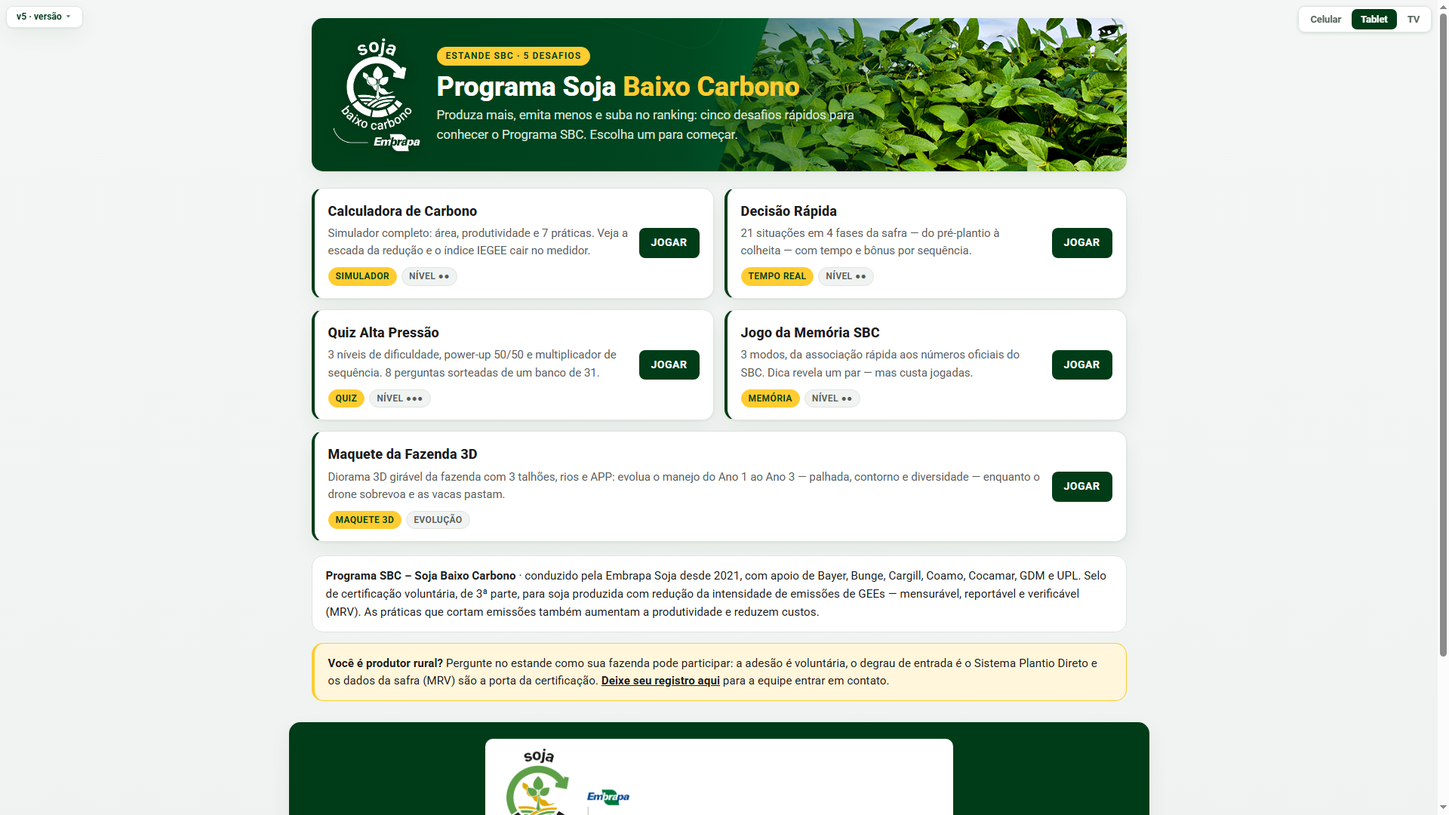
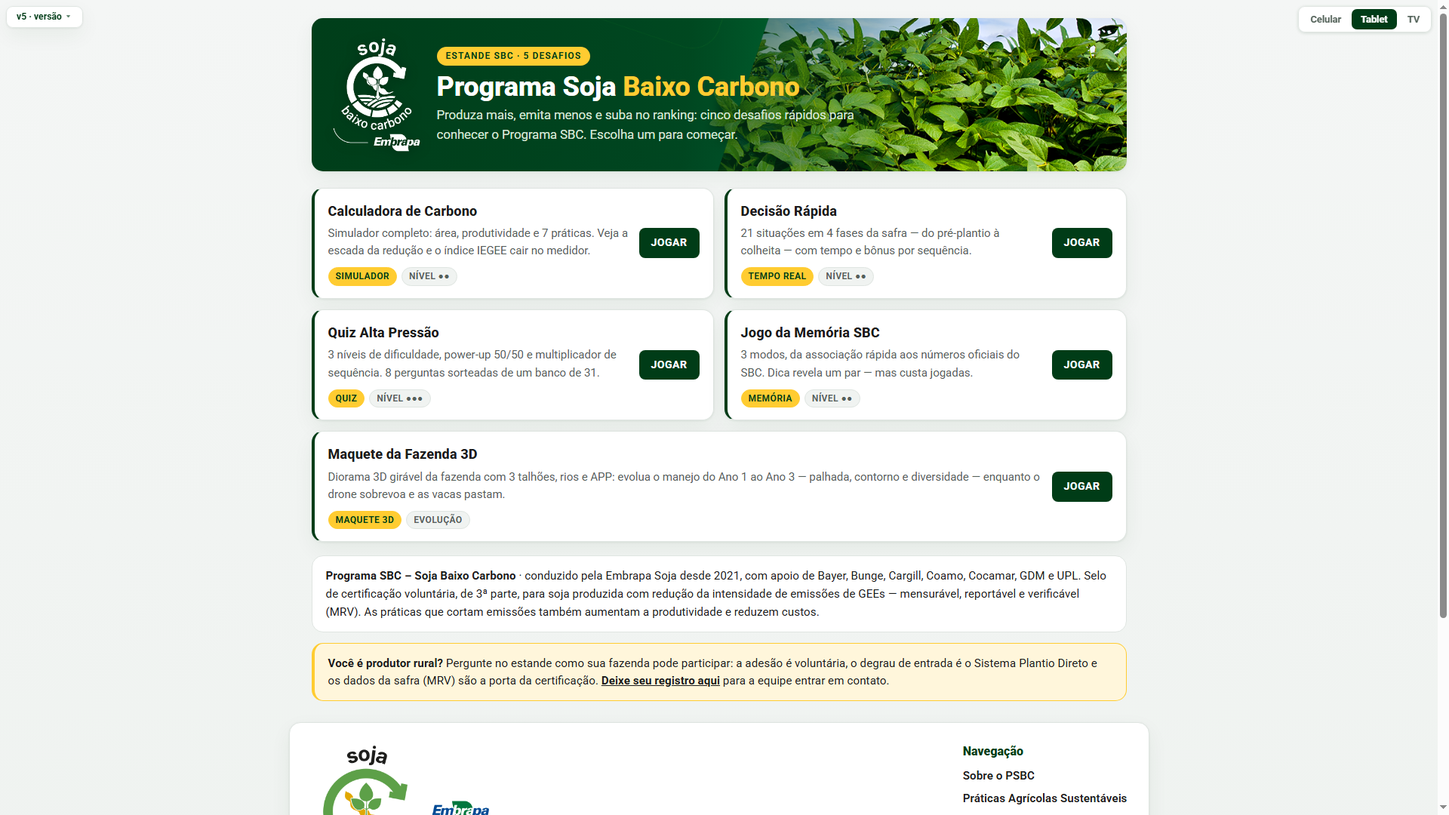
rodapé no modelo do site oficial (card de apoiadoras + navegação + redes)
- footer das 8 páginas: lockup das empresas apoiadoras à esquerda,
  bloco Navegação com os 6 links para as páginas oficiais
  (sobrem em nova aba), ícones Facebook/Instagram/LinkedIn/YouTube
  em SVG embutido e linha de copyright
- conserto: atributo stroke duplicado deixava o ícone do Instagram escuro

Changed region(s): [[0.1875, 0.8861, 0.8125, 1.0], [0.9688, 0.7639, 1.0, 0.7944]]

diff --git a/jogo1.html b/jogo1.html
@@ -188,11 +188,29 @@
         </section>
     </main>
 
-    <footer class="rodape">
-        <img class="logo-rodape" src="logos-oficiais/embrapa.png" alt="Embrapa">
-        Programa SBC – Soja Baixo Carbono · Embrapa Soja<br>
-        Certificação voluntária de 3ª parte · Mensurável, Reportável e Verificável (MRV)
-    </footer>
+    
+<footer class="rodape">
+    <div class="rodape-linha">
+        <img class="rodape-lockup" src="logos-oficiais/lockup-apoiadoras-2026.png" alt="Programa SBC – Soja Baixo Carbono · Empresas apoiadoras: Bayer, Bunge, Cargill, Coamo, Cocamar, GDM e UPL">
+        <nav class="rodape-nav">
+            <h3>Navegação</h3>
+            <a href="https://sojabaixocarbono.com.br/pt/sobre/" target="_blank" rel="noopener">Sobre o PSBC</a>
+            <a href="https://sojabaixocarbono.com.br/pt/sobre/praticas-agricolas-sustentaveis/" target="_blank" rel="noopener">Práticas Agrícolas Sustentáveis</a>
+            <a href="https://sojabaixocarbono.com.br/pt/sobre/diretrizes-tecnicas/" target="_blank" rel="noopener">Diretrizes Técnicas</a>
+            <a href="https://sojabaixocarbono.com.br/noticias/" target="_blank" rel="noopener">Notícias</a>
+            <a href="https://sojabaixocarbono.com.br/empresas-apoiadoras/" target="_blank" rel="noopener">Empresas Apoiadoras</a>
+            <a href="https://sojabaixocarbono.com.br/pt/contato/" target="_blank" rel="noopener">Entre em Contato</a>
+            <div class="rodape-sociais">
+                <a href="https://www.facebook.com/embrapasoja.oficial" target="_blank" rel="noopener" aria-label="Facebook"><svg viewBox="0 0 24 24"><path d="M15.5 3H18V0h-3.4C11.2 0 10 1.9 10 4.6V7H7v3h3v11h4V10h3l.6-3H14V5c0-1 .6-2 1.5-2z"/></svg></a>
+                <a href="https://www.instagram.com/embrapasoja" target="_blank" rel="noopener" aria-label="Instagram"><svg viewBox="0 0 24 24"><rect x="2.5" y="2.5" width="19" height="19" rx="5" fill="none" stroke-width="2" stroke="#fff"/><circle cx="12" cy="12" r="4.2" fill="none" stroke-width="2" stroke="#fff"/><circle cx="17.3" cy="6.7" r="1.3"/></svg></a>
+                <a href="https://www.linkedin.com/company/embrapa-soja" target="_blank" rel="noopener" aria-label="LinkedIn"><svg viewBox="0 0 24 24"><path d="M4.98 3.5a2.49 2.49 0 1 1-.02 4.98 2.49 2.49 0 0 1 .02-4.98zM3 9h4v12H3zM10 9h3.8v1.7c.6-1.1 2-2 3.9-2 3.3 0 4.3 1.9 4.3 5.2V21h-4v-6c0-1.6-.3-3.1-2.1-3.1-1.8 0-2.1 1.5-2.1 3v6H10z"/></svg></a>
+                <a href="https://www.youtube.com/@EmbrapaSojaRadar" target="_blank" rel="noopener" aria-label="YouTube"><svg viewBox="0 0 24 24"><path d="M21.6 7.2a2.5 2.5 0 0 0-1.8-1.8C18.2 5 12 5 12 5s-6.2 0-7.8.4A2.5 2.5 0 0 0 2.4 7.2 26 26 0 0 0 2 12a26 26 0 0 0 .4 4.8 2.5 2.5 0 0 0 1.8 1.8C5.8 19 12 19 12 19s6.2 0 7.8-.4a2.5 2.5 0 0 0 1.8-1.8A26 26 0 0 0 22 12a26 26 0 0 0-.4-4.8zM10 15V9l5.2 3z"/></svg></a>
+            </div>
+        </nav>
+    </div>
+    <div class="rodape-base">2026 © Todos os direitos autorais reservados · Programa SBC – Soja Baixo Carbono · Embrapa Soja · Londrina, PR</div>
+</footer>
+
 
     <script src="jogos-sbc.js"></script>
     <script>

diff --git a/jogo3.html b/jogo3.html
@@ -108,10 +108,29 @@
         <a href="index.html" class="botao neutro" style="text-decoration:none;text-align:center;">Voltar ao menu</a>
     </main>
 
-    <footer class="rodape">
-        <img class="logo-rodape" src="logos-oficiais/embrapa.png" alt="Embrapa">
-        Programa SBC – Soja Baixo Carbono · Embrapa Soja
-    </footer>
+    
+<footer class="rodape">
+    <div class="rodape-linha">
+        <img class="rodape-lockup" src="logos-oficiais/lockup-apoiadoras-2026.png" alt="Programa SBC – Soja Baixo Carbono · Empresas apoiadoras: Bayer, Bunge, Cargill, Coamo, Cocamar, GDM e UPL">
+        <nav class="rodape-nav">
+            <h3>Navegação</h3>
+            <a href="https://sojabaixocarbono.com.br/pt/sobre/" target="_blank" rel="noopener">Sobre o PSBC</a>
+            <a href="https://sojabaixocarbono.com.br/pt/sobre/praticas-agricolas-sustentaveis/" target="_blank" rel="noopener">Práticas Agrícolas Sustentáveis</a>
+            <a href="https://sojabaixocarbono.com.br/pt/sobre/diretrizes-tecnicas/" target="_blank" rel="noopener">Diretrizes Técnicas</a>
+            <a href="https://sojabaixocarbono.com.br/noticias/" target="_blank" rel="noopener">Notícias</a>
+            <a href="https://sojabaixocarbono.com.br/empresas-apoiadoras/" target="_blank" rel="noopener">Empresas Apoiadoras</a>
+            <a href="https://sojabaixocarbono.com.br/pt/contato/" target="_blank" rel="noopener">Entre em Contato</a>
+            <div class="rodape-sociais">
+                <a href="https://www.facebook.com/embrapasoja.oficial" target="_blank" rel="noopener" aria-label="Facebook"><svg viewBox="0 0 24 24"><path d="M15.5 3H18V0h-3.4C11.2 0 10 1.9 10 4.6V7H7v3h3v11h4V10h3l.6-3H14V5c0-1 .6-2 1.5-2z"/></svg></a>
+                <a href="https://www.instagram.com/embrapasoja" target="_blank" rel="noopener" aria-label="Instagram"><svg viewBox="0 0 24 24"><rect x="2.5" y="2.5" width="19" height="19" rx="5" fill="none" stroke-width="2" stroke="#fff"/><circle cx="12" cy="12" r="4.2" fill="none" stroke-width="2" stroke="#fff"/><circle cx="17.3" cy="6.7" r="1.3"/></svg></a>
+                <a href="https://www.linkedin.com/company/embrapa-soja" target="_blank" rel="noopener" aria-label="LinkedIn"><svg viewBox="0 0 24 24"><path d="M4.98 3.5a2.49 2.49 0 1 1-.02 4.98 2.49 2.49 0 0 1 .02-4.98zM3 9h4v12H3zM10 9h3.8v1.7c.6-1.1 2-2 3.9-2 3.3 0 4.3 1.9 4.3 5.2V21h-4v-6c0-1.6-.3-3.1-2.1-3.1-1.8 0-2.1 1.5-2.1 3v6H10z"/></svg></a>
+                <a href="https://www.youtube.com/@EmbrapaSojaRadar" target="_blank" rel="noopener" aria-label="YouTube"><svg viewBox="0 0 24 24"><path d="M21.6 7.2a2.5 2.5 0 0 0-1.8-1.8C18.2 5 12 5 12 5s-6.2 0-7.8.4A2.5 2.5 0 0 0 2.4 7.2 26 26 0 0 0 2 12a26 26 0 0 0 .4 4.8 2.5 2.5 0 0 0 1.8 1.8C5.8 19 12 19 12 19s6.2 0 7.8-.4a2.5 2.5 0 0 0 1.8-1.8A26 26 0 0 0 22 12a26 26 0 0 0-.4-4.8zM10 15V9l5.2 3z"/></svg></a>
+            </div>
+        </nav>
+    </div>
+    <div class="rodape-base">2026 © Todos os direitos autorais reservados · Programa SBC – Soja Baixo Carbono · Embrapa Soja · Londrina, PR</div>
+</footer>
+
 
     <script src="jogos-sbc.js"></script>
     <script>

diff --git a/jogo4.html b/jogo4.html
@@ -171,10 +171,29 @@
         <a href="index.html" class="botao neutro" style="text-decoration:none;text-align:center;">Voltar ao menu</a>
     </main>
 
-    <footer class="rodape">
-        <img class="logo-rodape" src="logos-oficiais/embrapa.png" alt="Embrapa">
-        Programa SBC – Soja Baixo Carbono · Embrapa Soja
-    </footer>
+    
+<footer class="rodape">
+    <div class="rodape-linha">
+        <img class="rodape-lockup" src="logos-oficiais/lockup-apoiadoras-2026.png" alt="Programa SBC – Soja Baixo Carbono · Empresas apoiadoras: Bayer, Bunge, Cargill, Coamo, Cocamar, GDM e UPL">
+        <nav class="rodape-nav">
+            <h3>Navegação</h3>
+            <a href="https://sojabaixocarbono.com.br/pt/sobre/" target="_blank" rel="noopener">Sobre o PSBC</a>
+            <a href="https://sojabaixocarbono.com.br/pt/sobre/praticas-agricolas-sustentaveis/" target="_blank" rel="noopener">Práticas Agrícolas Sustentáveis</a>
+            <a href="https://sojabaixocarbono.com.br/pt/sobre/diretrizes-tecnicas/" target="_blank" rel="noopener">Diretrizes Técnicas</a>
+            <a href="https://sojabaixocarbono.com.br/noticias/" target="_blank" rel="noopener">Notícias</a>
+            <a href="https://sojabaixocarbono.com.br/empresas-apoiadoras/" target="_blank" rel="noopener">Empresas Apoiadoras</a>
+            <a href="https://sojabaixocarbono.com.br/pt/contato/" target="_blank" rel="noopener">Entre em Contato</a>
+            <div class="rodape-sociais">
+                <a href="https://www.facebook.com/embrapasoja.oficial" target="_blank" rel="noopener" aria-label="Facebook"><svg viewBox="0 0 24 24"><path d="M15.5 3H18V0h-3.4C11.2 0 10 1.9 10 4.6V7H7v3h3v11h4V10h3l.6-3H14V5c0-1 .6-2 1.5-2z"/></svg></a>
+                <a href="https://www.instagram.com/embrapasoja" target="_blank" rel="noopener" aria-label="Instagram"><svg viewBox="0 0 24 24"><rect x="2.5" y="2.5" width="19" height="19" rx="5" fill="none" stroke-width="2" stroke="#fff"/><circle cx="12" cy="12" r="4.2" fill="none" stroke-width="2" stroke="#fff"/><circle cx="17.3" cy="6.7" r="1.3"/></svg></a>
+                <a href="https://www.linkedin.com/company/embrapa-soja" target="_blank" rel="noopener" aria-label="LinkedIn"><svg viewBox="0 0 24 24"><path d="M4.98 3.5a2.49 2.49 0 1 1-.02 4.98 2.49 2.49 0 0 1 .02-4.98zM3 9h4v12H3zM10 9h3.8v1.7c.6-1.1 2-2 3.9-2 3.3 0 4.3 1.9 4.3 5.2V21h-4v-6c0-1.6-.3-3.1-2.1-3.1-1.8 0-2.1 1.5-2.1 3v6H10z"/></svg></a>
+                <a href="https://www.youtube.com/@EmbrapaSojaRadar" target="_blank" rel="noopener" aria-label="YouTube"><svg viewBox="0 0 24 24"><path d="M21.6 7.2a2.5 2.5 0 0 0-1.8-1.8C18.2 5 12 5 12 5s-6.2 0-7.8.4A2.5 2.5 0 0 0 2.4 7.2 26 26 0 0 0 2 12a26 26 0 0 0 .4 4.8 2.5 2.5 0 0 0 1.8 1.8C5.8 19 12 19 12 19s6.2 0 7.8-.4a2.5 2.5 0 0 0 1.8-1.8A26 26 0 0 0 22 12a26 26 0 0 0-.4-4.8zM10 15V9l5.2 3z"/></svg></a>
+            </div>
+        </nav>
+    </div>
+    <div class="rodape-base">2026 © Todos os direitos autorais reservados · Programa SBC – Soja Baixo Carbono · Embrapa Soja · Londrina, PR</div>
+</footer>
+
 
     <script src="jogos-sbc.js"></script>
     <script>

diff --git a/jogo2.html b/jogo2.html
@@ -99,10 +99,29 @@
         <a href="index.html" class="botao neutro" style="text-decoration:none;text-align:center;">Voltar ao menu</a>
     </main>
 
-    <footer class="rodape">
-        <img class="logo-rodape" src="logos-oficiais/embrapa.png" alt="Embrapa">
-        Programa SBC – Soja Baixo Carbono · Embrapa Soja
-    </footer>
+    
+<footer class="rodape">
+    <div class="rodape-linha">
+        <img class="rodape-lockup" src="logos-oficiais/lockup-apoiadoras-2026.png" alt="Programa SBC – Soja Baixo Carbono · Empresas apoiadoras: Bayer, Bunge, Cargill, Coamo, Cocamar, GDM e UPL">
+        <nav class="rodape-nav">
+            <h3>Navegação</h3>
+            <a href="https://sojabaixocarbono.com.br/pt/sobre/" target="_blank" rel="noopener">Sobre o PSBC</a>
+            <a href="https://sojabaixocarbono.com.br/pt/sobre/praticas-agricolas-sustentaveis/" target="_blank" rel="noopener">Práticas Agrícolas Sustentáveis</a>
+            <a href="https://sojabaixocarbono.com.br/pt/sobre/diretrizes-tecnicas/" target="_blank" rel="noopener">Diretrizes Técnicas</a>
+            <a href="https://sojabaixocarbono.com.br/noticias/" target="_blank" rel="noopener">Notícias</a>
+            <a href="https://sojabaixocarbono.com.br/empresas-apoiadoras/" target="_blank" rel="noopener">Empresas Apoiadoras</a>
+            <a href="https://sojabaixocarbono.com.br/pt/contato/" target="_blank" rel="noopener">Entre em Contato</a>
+            <div class="rodape-sociais">
+                <a href="https://www.facebook.com/embrapasoja.oficial" target="_blank" rel="noopener" aria-label="Facebook"><svg viewBox="0 0 24 24"><path d="M15.5 3H18V0h-3.4C11.2 0 10 1.9 10 4.6V7H7v3h3v11h4V10h3l.6-3H14V5c0-1 .6-2 1.5-2z"/></svg></a>
+                <a href="https://www.instagram.com/embrapasoja" target="_blank" rel="noopener" aria-label="Instagram"><svg viewBox="0 0 24 24"><rect x="2.5" y="2.5" width="19" height="19" rx="5" fill="none" stroke-width="2" stroke="#fff"/><circle cx="12" cy="12" r="4.2" fill="none" stroke-width="2" stroke="#fff"/><circle cx="17.3" cy="6.7" r="1.3"/></svg></a>
+                <a href="https://www.linkedin.com/company/embrapa-soja" target="_blank" rel="noopener" aria-label="LinkedIn"><svg viewBox="0 0 24 24"><path d="M4.98 3.5a2.49 2.49 0 1 1-.02 4.98 2.49 2.49 0 0 1 .02-4.98zM3 9h4v12H3zM10 9h3.8v1.7c.6-1.1 2-2 3.9-2 3.3 0 4.3 1.9 4.3 5.2V21h-4v-6c0-1.6-.3-3.1-2.1-3.1-1.8 0-2.1 1.5-2.1 3v6H10z"/></svg></a>
+                <a href="https://www.youtube.com/@EmbrapaSojaRadar" target="_blank" rel="noopener" aria-label="YouTube"><svg viewBox="0 0 24 24"><path d="M21.6 7.2a2.5 2.5 0 0 0-1.8-1.8C18.2 5 12 5 12 5s-6.2 0-7.8.4A2.5 2.5 0 0 0 2.4 7.2 26 26 0 0 0 2 12a26 26 0 0 0 .4 4.8 2.5 2.5 0 0 0 1.8 1.8C5.8 19 12 19 12 19s6.2 0 7.8-.4a2.5 2.5 0 0 0 1.8-1.8A26 26 0 0 0 22 12a26 26 0 0 0-.4-4.8zM10 15V9l5.2 3z"/></svg></a>
+            </div>
+        </nav>
+    </div>
+    <div class="rodape-base">2026 © Todos os direitos autorais reservados · Programa SBC – Soja Baixo Carbono · Embrapa Soja · Londrina, PR</div>
+</footer>
+
 
     <script src="jogos-sbc.js"></script>
     <script>

diff --git a/index.html b/index.html
@@ -356,10 +356,29 @@
         </div>
     </div>
 
-    <footer class="rodape">
-        <img class="faixa-apoiadores" src="logos-oficiais/lockup-apoiadoras-2026.png" alt="Programa SBC — Iniciativa Embrapa · Empresas apoiadoras: Bayer, Bunge, Cargill, Coamo, Cocamar, GDM e UPL">
-        Embrapa Soja · Londrina, PR
-    </footer>
+    
+<footer class="rodape">
+    <div class="rodape-linha">
+        <img class="rodape-lockup" src="logos-oficiais/lockup-apoiadoras-2026.png" alt="Programa SBC – Soja Baixo Carbono · Empresas apoiadoras: Bayer, Bunge, Cargill, Coamo, Cocamar, GDM e UPL">
+        <nav class="rodape-nav">
+            <h3>Navegação</h3>
+            <a href="https://sojabaixocarbono.com.br/pt/sobre/" target="_blank" rel="noopener">Sobre o PSBC</a>
+            <a href="https://sojabaixocarbono.com.br/pt/sobre/praticas-agricolas-sustentaveis/" target="_blank" rel="noopener">Práticas Agrícolas Sustentáveis</a>
+            <a href="https://sojabaixocarbono.com.br/pt/sobre/diretrizes-tecnicas/" target="_blank" rel="noopener">Diretrizes Técnicas</a>
+            <a href="https://sojabaixocarbono.com.br/noticias/" target="_blank" rel="noopener">Notícias</a>
+            <a href="https://sojabaixocarbono.com.br/empresas-apoiadoras/" target="_blank" rel="noopener">Empresas Apoiadoras</a>
+            <a href="https://sojabaixocarbono.com.br/pt/contato/" target="_blank" rel="noopener">Entre em Contato</a>
+            <div class="rodape-sociais">
+                <a href="https://www.facebook.com/embrapasoja.oficial" target="_blank" rel="noopener" aria-label="Facebook"><svg viewBox="0 0 24 24"><path d="M15.5 3H18V0h-3.4C11.2 0 10 1.9 10 4.6V7H7v3h3v11h4V10h3l.6-3H14V5c0-1 .6-2 1.5-2z"/></svg></a>
+                <a href="https://www.instagram.com/embrapasoja" target="_blank" rel="noopener" aria-label="Instagram"><svg viewBox="0 0 24 24"><rect x="2.5" y="2.5" width="19" height="19" rx="5" fill="none" stroke-width="2" stroke="#fff"/><circle cx="12" cy="12" r="4.2" fill="none" stroke-width="2" stroke="#fff"/><circle cx="17.3" cy="6.7" r="1.3"/></svg></a>
+                <a href="https://www.linkedin.com/company/embrapa-soja" target="_blank" rel="noopener" aria-label="LinkedIn"><svg viewBox="0 0 24 24"><path d="M4.98 3.5a2.49 2.49 0 1 1-.02 4.98 2.49 2.49 0 0 1 .02-4.98zM3 9h4v12H3zM10 9h3.8v1.7c.6-1.1 2-2 3.9-2 3.3 0 4.3 1.9 4.3 5.2V21h-4v-6c0-1.6-.3-3.1-2.1-3.1-1.8 0-2.1 1.5-2.1 3v6H10z"/></svg></a>
+                <a href="https://www.youtube.com/@EmbrapaSojaRadar" target="_blank" rel="noopener" aria-label="YouTube"><svg viewBox="0 0 24 24"><path d="M21.6 7.2a2.5 2.5 0 0 0-1.8-1.8C18.2 5 12 5 12 5s-6.2 0-7.8.4A2.5 2.5 0 0 0 2.4 7.2 26 26 0 0 0 2 12a26 26 0 0 0 .4 4.8 2.5 2.5 0 0 0 1.8 1.8C5.8 19 12 19 12 19s6.2 0 7.8-.4a2.5 2.5 0 0 0 1.8-1.8A26 26 0 0 0 22 12a26 26 0 0 0-.4-4.8zM10 15V9l5.2 3z"/></svg></a>
+            </div>
+        </nav>
+    </div>
+    <div class="rodape-base">2026 © Todos os direitos autorais reservados · Programa SBC – Soja Baixo Carbono · Embrapa Soja · Londrina, PR</div>
+</footer>
+
 
     <script src="jogos-sbc.js"></script>
     <script>

diff --git a/jogo5.html b/jogo5.html
@@ -399,10 +399,29 @@
         <ul class="lista-ranking" id="ranking-inicial"></ul>
     </main>
 
-    <footer class="rodape">
-        <img class="logo-rodape" src="logos-oficiais/embrapa.png" alt="Embrapa">
-        Programa SBC – Soja Baixo Carbono · Embrapa Soja
-    </footer>
+    
+<footer class="rodape">
+    <div class="rodape-linha">
+        <img class="rodape-lockup" src="logos-oficiais/lockup-apoiadoras-2026.png" alt="Programa SBC – Soja Baixo Carbono · Empresas apoiadoras: Bayer, Bunge, Cargill, Coamo, Cocamar, GDM e UPL">
+        <nav class="rodape-nav">
+            <h3>Navegação</h3>
+            <a href="https://sojabaixocarbono.com.br/pt/sobre/" target="_blank" rel="noopener">Sobre o PSBC</a>
+            <a href="https://sojabaixocarbono.com.br/pt/sobre/praticas-agricolas-sustentaveis/" target="_blank" rel="noopener">Práticas Agrícolas Sustentáveis</a>
+            <a href="https://sojabaixocarbono.com.br/pt/sobre/diretrizes-tecnicas/" target="_blank" rel="noopener">Diretrizes Técnicas</a>
+            <a href="https://sojabaixocarbono.com.br/noticias/" target="_blank" rel="noopener">Notícias</a>
+            <a href="https://sojabaixocarbono.com.br/empresas-apoiadoras/" target="_blank" rel="noopener">Empresas Apoiadoras</a>
+            <a href="https://sojabaixocarbono.com.br/pt/contato/" target="_blank" rel="noopener">Entre em Contato</a>
+            <div class="rodape-sociais">
+                <a href="https://www.facebook.com/embrapasoja.oficial" target="_blank" rel="noopener" aria-label="Facebook"><svg viewBox="0 0 24 24"><path d="M15.5 3H18V0h-3.4C11.2 0 10 1.9 10 4.6V7H7v3h3v11h4V10h3l.6-3H14V5c0-1 .6-2 1.5-2z"/></svg></a>
+                <a href="https://www.instagram.com/embrapasoja" target="_blank" rel="noopener" aria-label="Instagram"><svg viewBox="0 0 24 24"><rect x="2.5" y="2.5" width="19" height="19" rx="5" fill="none" stroke-width="2" stroke="#fff"/><circle cx="12" cy="12" r="4.2" fill="none" stroke-width="2" stroke="#fff"/><circle cx="17.3" cy="6.7" r="1.3"/></svg></a>
+                <a href="https://www.linkedin.com/company/embrapa-soja" target="_blank" rel="noopener" aria-label="LinkedIn"><svg viewBox="0 0 24 24"><path d="M4.98 3.5a2.49 2.49 0 1 1-.02 4.98 2.49 2.49 0 0 1 .02-4.98zM3 9h4v12H3zM10 9h3.8v1.7c.6-1.1 2-2 3.9-2 3.3 0 4.3 1.9 4.3 5.2V21h-4v-6c0-1.6-.3-3.1-2.1-3.1-1.8 0-2.1 1.5-2.1 3v6H10z"/></svg></a>
+                <a href="https://www.youtube.com/@EmbrapaSojaRadar" target="_blank" rel="noopener" aria-label="YouTube"><svg viewBox="0 0 24 24"><path d="M21.6 7.2a2.5 2.5 0 0 0-1.8-1.8C18.2 5 12 5 12 5s-6.2 0-7.8.4A2.5 2.5 0 0 0 2.4 7.2 26 26 0 0 0 2 12a26 26 0 0 0 .4 4.8 2.5 2.5 0 0 0 1.8 1.8C5.8 19 12 19 12 19s6.2 0 7.8-.4a2.5 2.5 0 0 0 1.8-1.8A26 26 0 0 0 22 12a26 26 0 0 0-.4-4.8zM10 15V9l5.2 3z"/></svg></a>
+            </div>
+        </nav>
+    </div>
+    <div class="rodape-base">2026 © Todos os direitos autorais reservados · Programa SBC – Soja Baixo Carbono · Embrapa Soja · Londrina, PR</div>
+</footer>
+
 
     <script src="three.min.js"></script>
     <script src="OrbitControls.js"></script>

diff --git a/registro.html b/registro.html
@@ -125,10 +125,29 @@
         </p>
     </main>
 
-    <footer class="rodape">
-        <img class="logo-rodape" src="logos-oficiais/embrapa.png" alt="Embrapa">
-        Programa SBC – Soja Baixo Carbono · Embrapa Soja
-    </footer>
+    
+<footer class="rodape">
+    <div class="rodape-linha">
+        <img class="rodape-lockup" src="logos-oficiais/lockup-apoiadoras-2026.png" alt="Programa SBC – Soja Baixo Carbono · Empresas apoiadoras: Bayer, Bunge, Cargill, Coamo, Cocamar, GDM e UPL">
+        <nav class="rodape-nav">
+            <h3>Navegação</h3>
+            <a href="https://sojabaixocarbono.com.br/pt/sobre/" target="_blank" rel="noopener">Sobre o PSBC</a>
+            <a href="https://sojabaixocarbono.com.br/pt/sobre/praticas-agricolas-sustentaveis/" target="_blank" rel="noopener">Práticas Agrícolas Sustentáveis</a>
+            <a href="https://sojabaixocarbono.com.br/pt/sobre/diretrizes-tecnicas/" target="_blank" rel="noopener">Diretrizes Técnicas</a>
+            <a href="https://sojabaixocarbono.com.br/noticias/" target="_blank" rel="noopener">Notícias</a>
+            <a href="https://sojabaixocarbono.com.br/empresas-apoiadoras/" target="_blank" rel="noopener">Empresas Apoiadoras</a>
+            <a href="https://sojabaixocarbono.com.br/pt/contato/" target="_blank" rel="noopener">Entre em Contato</a>
+            <div class="rodape-sociais">
+                <a href="https://www.facebook.com/embrapasoja.oficial" target="_blank" rel="noopener" aria-label="Facebook"><svg viewBox="0 0 24 24"><path d="M15.5 3H18V0h-3.4C11.2 0 10 1.9 10 4.6V7H7v3h3v11h4V10h3l.6-3H14V5c0-1 .6-2 1.5-2z"/></svg></a>
+                <a href="https://www.instagram.com/embrapasoja" target="_blank" rel="noopener" aria-label="Instagram"><svg viewBox="0 0 24 24"><rect x="2.5" y="2.5" width="19" height="19" rx="5" fill="none" stroke-width="2" stroke="#fff"/><circle cx="12" cy="12" r="4.2" fill="none" stroke-width="2" stroke="#fff"/><circle cx="17.3" cy="6.7" r="1.3"/></svg></a>
+                <a href="https://www.linkedin.com/company/embrapa-soja" target="_blank" rel="noopener" aria-label="LinkedIn"><svg viewBox="0 0 24 24"><path d="M4.98 3.5a2.49 2.49 0 1 1-.02 4.98 2.49 2.49 0 0 1 .02-4.98zM3 9h4v12H3zM10 9h3.8v1.7c.6-1.1 2-2 3.9-2 3.3 0 4.3 1.9 4.3 5.2V21h-4v-6c0-1.6-.3-3.1-2.1-3.1-1.8 0-2.1 1.5-2.1 3v6H10z"/></svg></a>
+                <a href="https://www.youtube.com/@EmbrapaSojaRadar" target="_blank" rel="noopener" aria-label="YouTube"><svg viewBox="0 0 24 24"><path d="M21.6 7.2a2.5 2.5 0 0 0-1.8-1.8C18.2 5 12 5 12 5s-6.2 0-7.8.4A2.5 2.5 0 0 0 2.4 7.2 26 26 0 0 0 2 12a26 26 0 0 0 .4 4.8 2.5 2.5 0 0 0 1.8 1.8C5.8 19 12 19 12 19s6.2 0 7.8-.4a2.5 2.5 0 0 0 1.8-1.8A26 26 0 0 0 22 12a26 26 0 0 0-.4-4.8zM10 15V9l5.2 3z"/></svg></a>
+            </div>
+        </nav>
+    </div>
+    <div class="rodape-base">2026 © Todos os direitos autorais reservados · Programa SBC – Soja Baixo Carbono · Embrapa Soja · Londrina, PR</div>
+</footer>
+
 
     <script src="jogos-sbc.js"></script>
     <script>

diff --git a/painel.html b/painel.html
@@ -204,10 +204,29 @@
 
     </div>
 
-    <footer class="rodape">
-        <img class="logo-rodape" src="logos-oficiais/embrapa.png" alt="Embrapa">
-        Programa SBC – Soja Baixo Carbono · Embrapa Soja
-    </footer>
+    
+<footer class="rodape">
+    <div class="rodape-linha">
+        <img class="rodape-lockup" src="logos-oficiais/lockup-apoiadoras-2026.png" alt="Programa SBC – Soja Baixo Carbono · Empresas apoiadoras: Bayer, Bunge, Cargill, Coamo, Cocamar, GDM e UPL">
+        <nav class="rodape-nav">
+            <h3>Navegação</h3>
+            <a href="https://sojabaixocarbono.com.br/pt/sobre/" target="_blank" rel="noopener">Sobre o PSBC</a>
+            <a href="https://sojabaixocarbono.com.br/pt/sobre/praticas-agricolas-sustentaveis/" target="_blank" rel="noopener">Práticas Agrícolas Sustentáveis</a>
+            <a href="https://sojabaixocarbono.com.br/pt/sobre/diretrizes-tecnicas/" target="_blank" rel="noopener">Diretrizes Técnicas</a>
+            <a href="https://sojabaixocarbono.com.br/noticias/" target="_blank" rel="noopener">Notícias</a>
+            <a href="https://sojabaixocarbono.com.br/empresas-apoiadoras/" target="_blank" rel="noopener">Empresas Apoiadoras</a>
+            <a href="https://sojabaixocarbono.com.br/pt/contato/" target="_blank" rel="noopener">Entre em Contato</a>
+            <div class="rodape-sociais">
+                <a href="https://www.facebook.com/embrapasoja.oficial" target="_blank" rel="noopener" aria-label="Facebook"><svg viewBox="0 0 24 24"><path d="M15.5 3H18V0h-3.4C11.2 0 10 1.9 10 4.6V7H7v3h3v11h4V10h3l.6-3H14V5c0-1 .6-2 1.5-2z"/></svg></a>
+                <a href="https://www.instagram.com/embrapasoja" target="_blank" rel="noopener" aria-label="Instagram"><svg viewBox="0 0 24 24"><rect x="2.5" y="2.5" width="19" height="19" rx="5" fill="none" stroke-width="2" stroke="#fff"/><circle cx="12" cy="12" r="4.2" fill="none" stroke-width="2" stroke="#fff"/><circle cx="17.3" cy="6.7" r="1.3"/></svg></a>
+                <a href="https://www.linkedin.com/company/embrapa-soja" target="_blank" rel="noopener" aria-label="LinkedIn"><svg viewBox="0 0 24 24"><path d="M4.98 3.5a2.49 2.49 0 1 1-.02 4.98 2.49 2.49 0 0 1 .02-4.98zM3 9h4v12H3zM10 9h3.8v1.7c.6-1.1 2-2 3.9-2 3.3 0 4.3 1.9 4.3 5.2V21h-4v-6c0-1.6-.3-3.1-2.1-3.1-1.8 0-2.1 1.5-2.1 3v6H10z"/></svg></a>
+                <a href="https://www.youtube.com/@EmbrapaSojaRadar" target="_blank" rel="noopener" aria-label="YouTube"><svg viewBox="0 0 24 24"><path d="M21.6 7.2a2.5 2.5 0 0 0-1.8-1.8C18.2 5 12 5 12 5s-6.2 0-7.8.4A2.5 2.5 0 0 0 2.4 7.2 26 26 0 0 0 2 12a26 26 0 0 0 .4 4.8 2.5 2.5 0 0 0 1.8 1.8C5.8 19 12 19 12 19s6.2 0 7.8-.4a2.5 2.5 0 0 0 1.8-1.8A26 26 0 0 0 22 12a26 26 0 0 0-.4-4.8zM10 15V9l5.2 3z"/></svg></a>
+            </div>
+        </nav>
+    </div>
+    <div class="rodape-base">2026 © Todos os direitos autorais reservados · Programa SBC – Soja Baixo Carbono · Embrapa Soja · Londrina, PR</div>
+</footer>
+
 
     <script src="jogos-sbc.js"></script>
     <script>

diff --git a/estilo-sbc.css b/estilo-sbc.css
@@ -413,23 +413,90 @@ body {
     to { transform: translateY(105vh) rotate(420deg); opacity: 0.6; }
 }
 
-/* ---------- Rodapé (faixa verde-escura, como o site oficial) ---------- */
+/* ---------- Rodapé (modelo do site oficial: card de apoiadoras + navegação) ---------- */
 .rodape {
     max-width: 1140px;
     margin: 28px auto 8px;
-    padding: 22px 26px 16px;
-    background: var(--verde-escuro);
+    padding: 26px 28px 0;
+    background: #fff;
+    border: 1px solid var(--borda);
     border-radius: var(--raio);
     box-shadow: var(--sombra);
-    text-align: center;
-    font-size: 0.82em;
-    color: #cfe0d2;
+    text-align: left;
+    font-size: 0.9em;
+    color: var(--tinta);
 }
 
-.rodape .logo-rodape {
+.rodape-linha {
+    display: flex;
+    gap: 30px;
+    align-items: flex-start;
+    justify-content: space-between;
+}
+
+.rodape-lockup {
+    flex: none;
+    max-height: 300px;
+    width: auto;
+}
+
+.rodape-nav { min-width: 0; }
+
+.rodape-nav h3 {
+    margin: 0 0 4px;
+    font-size: 1.05em;
+    font-weight: 900;
+    color: var(--verde-escuro);
+}
+
+.rodape-nav > a {
     display: block;
-    margin: 0 auto 10px;
-    height: 38px;
+    padding: 3px 0;
+    color: var(--tinta);
+    font-weight: 600;
+    text-decoration: none;
+    transition: color 0.15s;
+}
+
+.rodape-nav > a:hover { color: var(--verde); }
+
+.rodape-sociais {
+    display: flex;
+    gap: 8px;
+    margin: 16px 0 0;
+}
+
+.rodape-sociais a {
+    display: inline-flex;
+    align-items: center;
+    justify-content: center;
+    width: 34px;
+    height: 34px;
+    border-radius: 7px;
+    background: var(--verde-escuro);
+    transition: background 0.15s;
+}
+
+.rodape-sociais a:hover { background: var(--verde); }
+
+.rodape-sociais svg {
+    width: 17px;
+    height: 17px;
+    fill: #fff;
+}
+
+.rodape-base {
+    margin-top: 24px;
+    padding: 14px 0 16px;
+    border-top: 1px solid var(--borda);
+    text-align: center;
+    font-size: 0.84em;
+    color: var(--tinta-suave);
+}
+
+@media (max-width: 620px) {
+    .rodape-linha { flex-direction: column; }
+    .rodape-lockup { max-height: 240px; }
 }
 
 /* ---------- Telas alternáveis ---------- */
